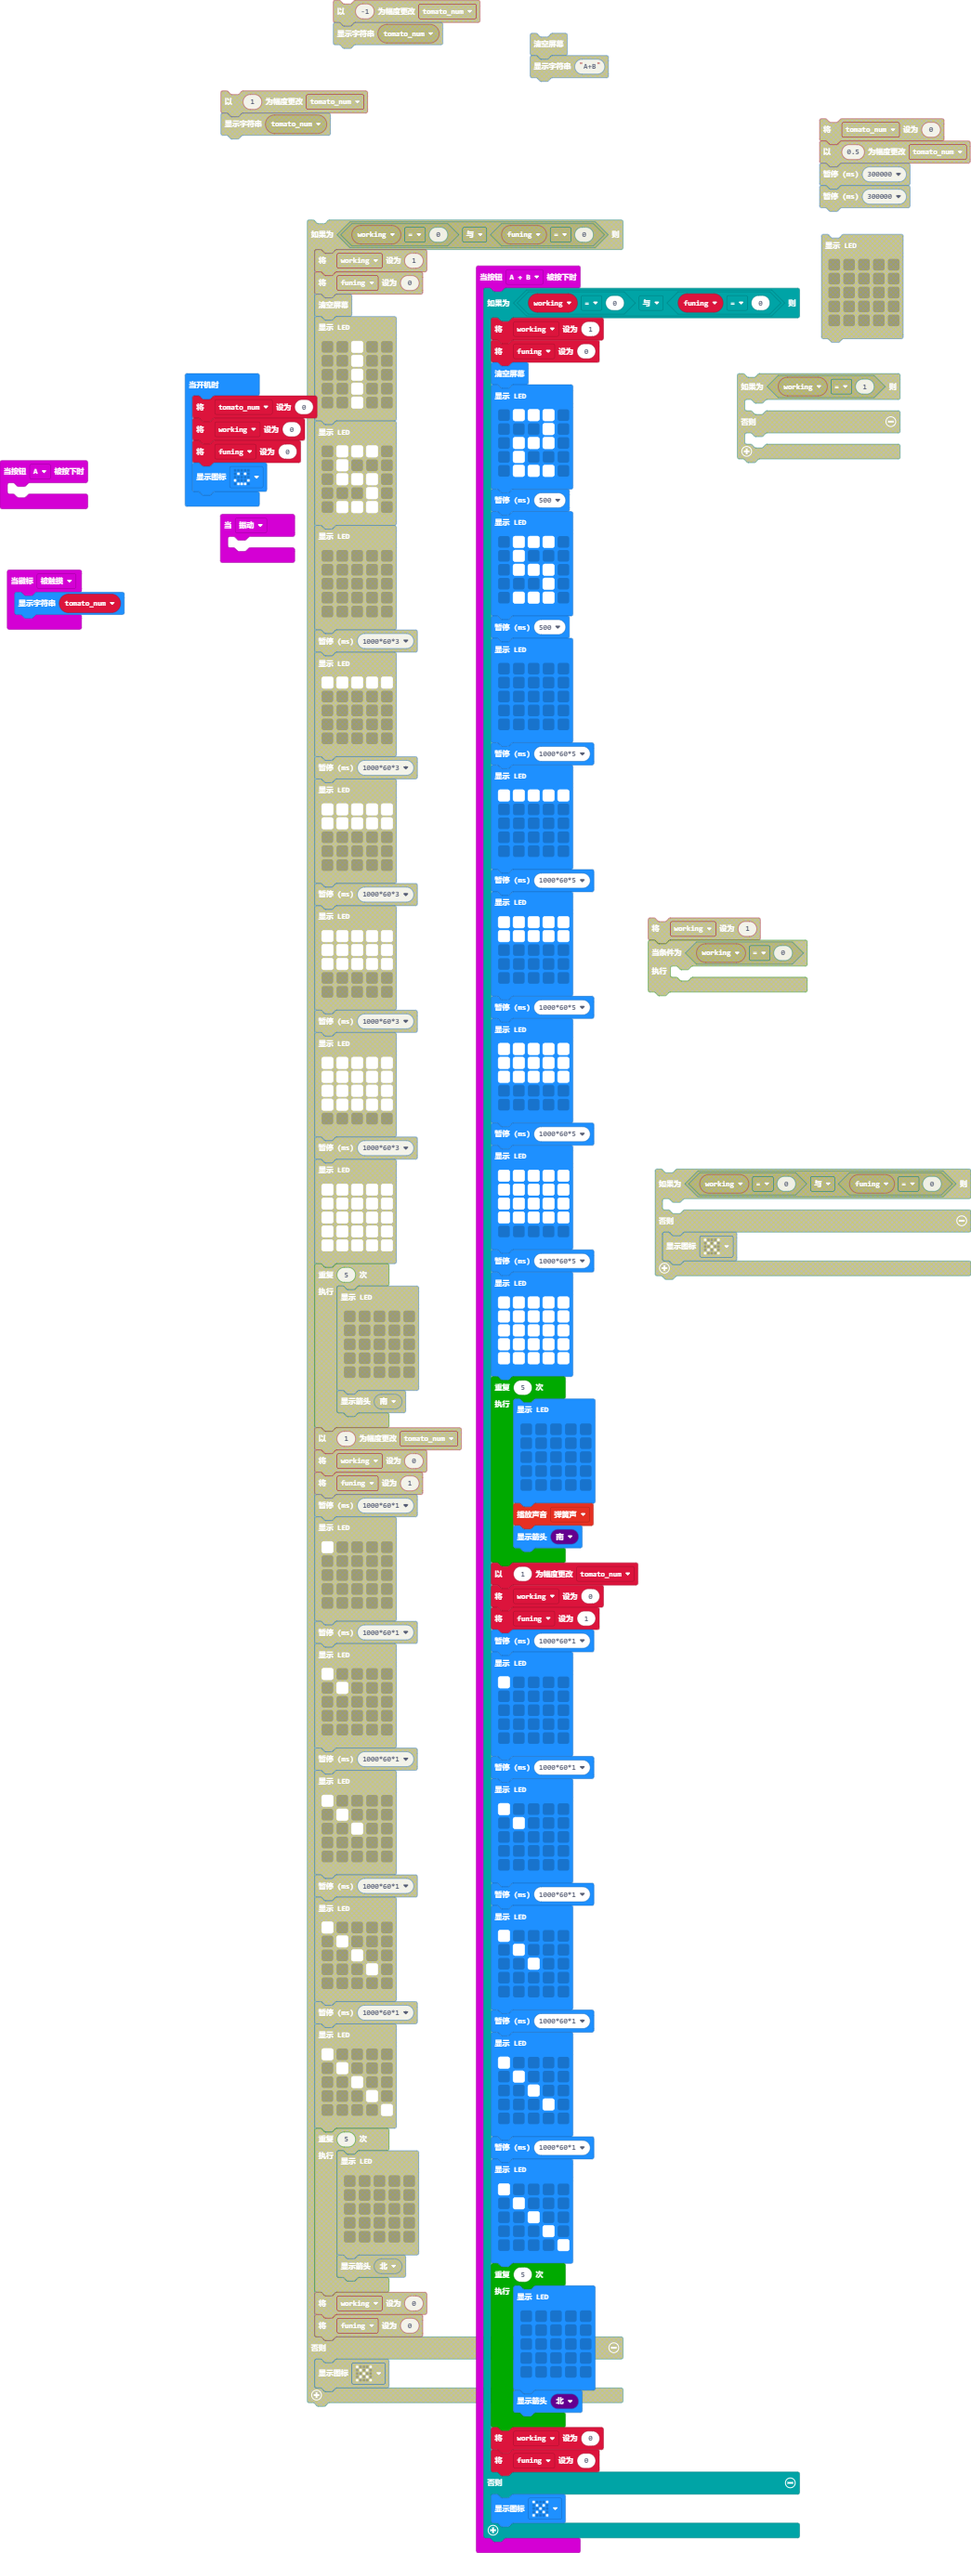
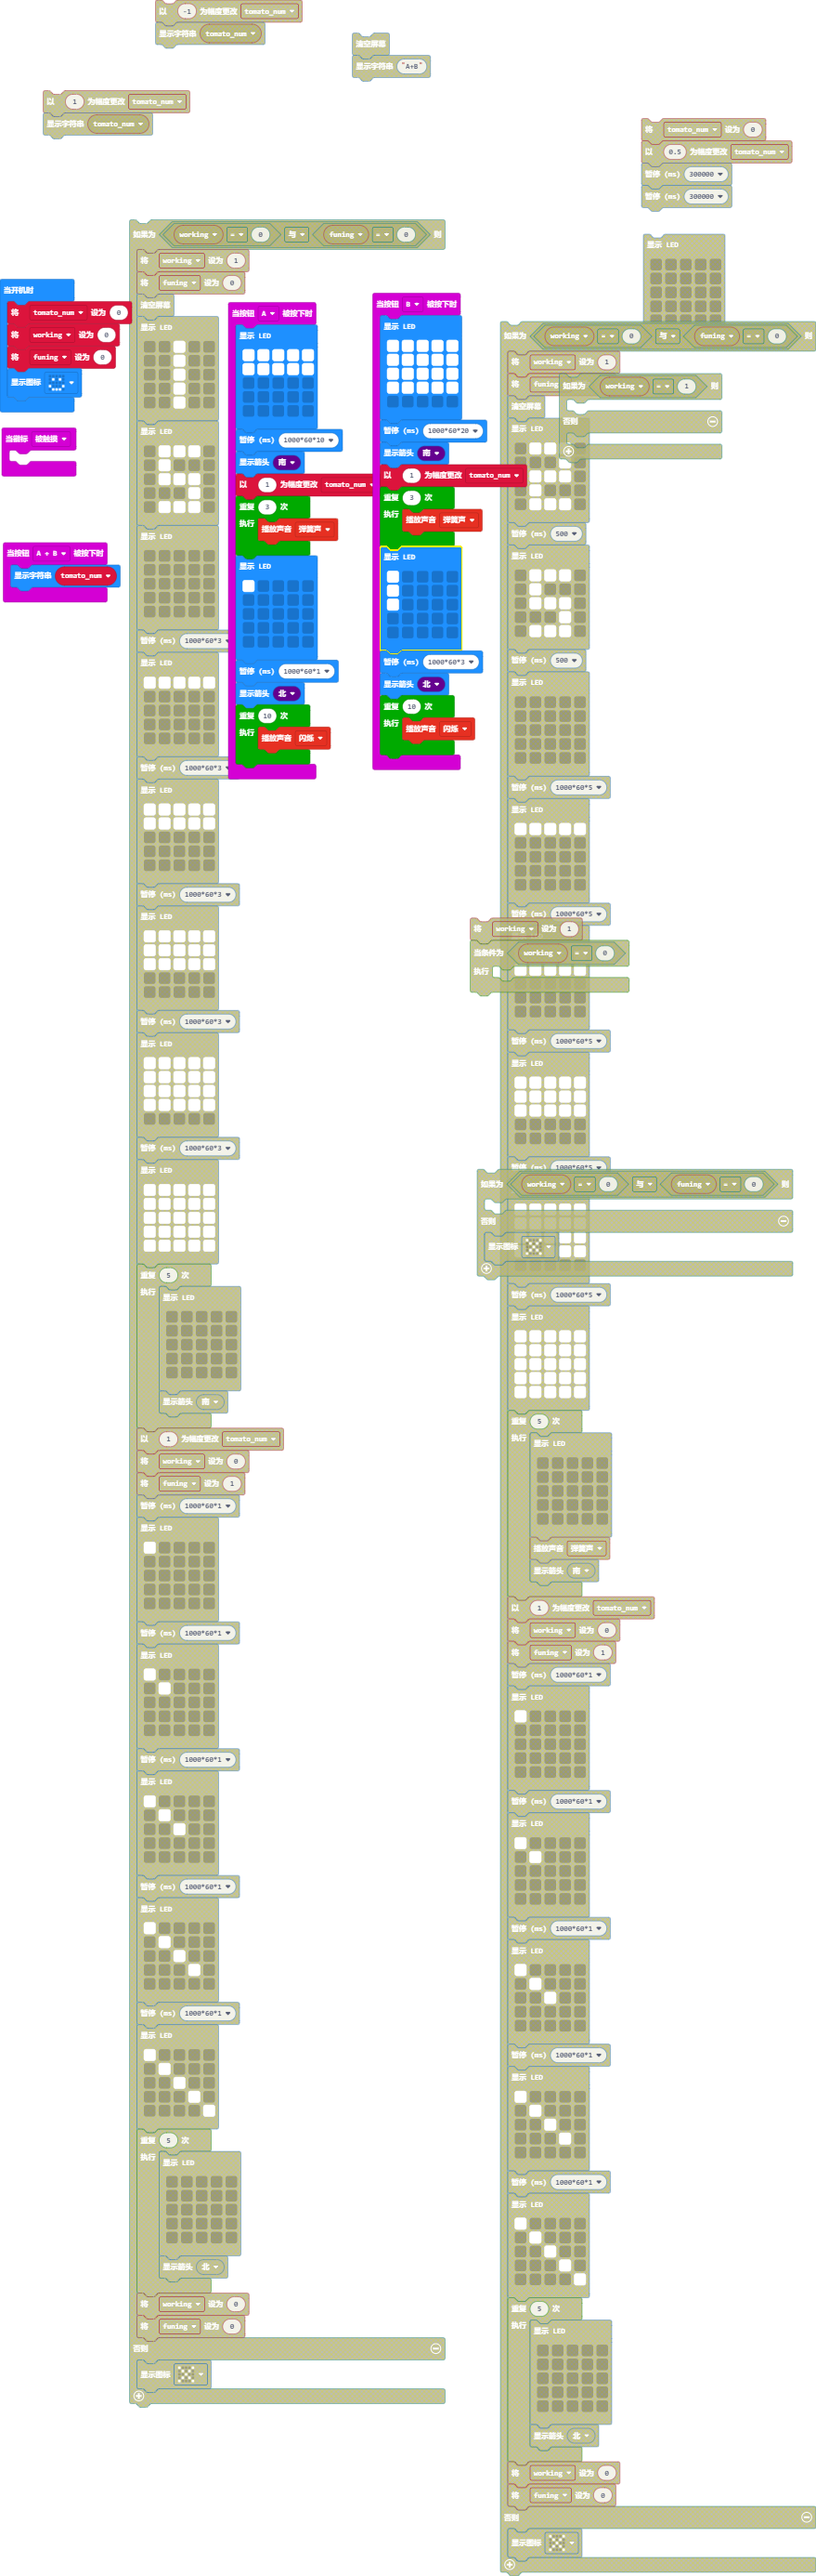
s

diff --git a/main.ts b/main.ts
@@ -1,154 +1,65 @@
 input.onLogoEvent(TouchButtonEvent.Touched, function () {
-    basic.showString("" + (tomato_num))
+	
 })
 input.onButtonPressed(Button.A, function () {
-	
-})
-input.onGesture(Gesture.Shake, function () {
-	
-})
-input.onButtonPressed(Button.AB, function () {
-    if (working == 0 && funing == 0) {
-        working = 1
-        funing = 0
-        basic.clearScreen()
-        basic.showLeds(`
-            . # # # .
-            . . . # .
-            . # # # .
-            . # . . .
-            . # # # .
-            `)
-        basic.pause(500)
-        basic.showLeds(`
-            . # # # .
-            . # . . .
-            . # # # .
-            . . . # .
-            . # # # .
-            `)
-        basic.pause(500)
-        basic.showLeds(`
-            . . . . .
-            . . . . .
-            . . . . .
-            . . . . .
-            . . . . .
-            `)
-        basic.pause(1000*60*5)
-        basic.showLeds(`
-            # # # # #
-            . . . . .
-            . . . . .
-            . . . . .
-            . . . . .
-            `)
-        basic.pause(1000*60*5)
-        basic.showLeds(`
-            # # # # #
-            # # # # #
-            . . . . .
-            . . . . .
-            . . . . .
-            `)
-        basic.pause(1000*60*5)
-        basic.showLeds(`
-            # # # # #
-            # # # # #
-            # # # # #
-            . . . . .
-            . . . . .
-            `)
-        basic.pause(1000*60*5)
-        basic.showLeds(`
-            # # # # #
-            # # # # #
-            # # # # #
-            # # # # #
-            . . . . .
-            `)
-        basic.pause(1000*60*5)
-        basic.showLeds(`
-            # # # # #
-            # # # # #
-            # # # # #
-            # # # # #
-            # # # # #
-            `)
-        for (let index = 0; index < 5; index++) {
-            basic.showLeds(`
-                . . . . .
-                . . . . .
-                . . . . .
-                . . . . .
-                . . . . .
-                `)
-            soundExpression.spring.play()
-            basic.showArrow(ArrowNames.South)
-        }
-        tomato_num += 1
-        working = 0
-        funing = 1
-        basic.pause(1000*60*1)
-        basic.showLeds(`
-            # . . . .
-            . . . . .
-            . . . . .
-            . . . . .
-            . . . . .
-            `)
-        basic.pause(1000*60*1)
-        basic.showLeds(`
-            # . . . .
-            . # . . .
-            . . . . .
-            . . . . .
-            . . . . .
-            `)
-        basic.pause(1000*60*1)
-        basic.showLeds(`
-            # . . . .
-            . # . . .
-            . . # . .
-            . . . . .
-            . . . . .
-            `)
-        basic.pause(1000*60*1)
-        basic.showLeds(`
-            # . . . .
-            . # . . .
-            . . # . .
-            . . . # .
-            . . . . .
-            `)
-        basic.pause(1000*60*1)
-        basic.showLeds(`
-            # . . . .
-            . # . . .
-            . . # . .
-            . . . # .
-            . . . . #
-            `)
-        for (let index = 0; index < 5; index++) {
-            basic.showLeds(`
-                . . . . .
-                . . . . .
-                . . . . .
-                . . . . .
-                . . . . .
-                `)
-            basic.showArrow(ArrowNames.North)
-        }
-        working = 0
-        funing = 0
-    } else {
-        basic.showIcon(IconNames.No)
+    basic.showLeds(`
+        # # # # #
+        # # # # #
+        . . . . .
+        . . . . .
+        . . . . .
+        `)
+    basic.pause(1000*60*10)
+    basic.showArrow(ArrowNames.South)
+    tomato_num += 1
+    for (let index = 0; index < 3; index++) {
+        soundExpression.spring.play()
+    }
+    basic.showLeds(`
+        # . . . .
+        . . . . .
+        . . . . .
+        . . . . .
+        . . . . .
+        `)
+    basic.pause(1000*60*1)
+    basic.showArrow(ArrowNames.North)
+    for (let index = 0; index < 10; index++) {
+        soundExpression.twinkle.play()
     }
 })
-let funing = 0
-let working = 0
+input.onButtonPressed(Button.AB, function () {
+    basic.showString("" + (tomato_num))
+})
+input.onButtonPressed(Button.B, function () {
+    basic.showLeds(`
+        # # # # #
+        # # # # #
+        # # # # #
+        # # # # #
+        . . . . .
+        `)
+    basic.pause(1000*60*20)
+    basic.showArrow(ArrowNames.South)
+    tomato_num += 1
+    for (let index = 0; index < 3; index++) {
+        soundExpression.spring.play()
+    }
+    basic.showLeds(`
+        # . . . .
+        # . . . .
+        # . . . .
+        . . . . .
+        . . . . .
+        `)
+    basic.pause(1000*60*3)
+    basic.showArrow(ArrowNames.North)
+    for (let index = 0; index < 10; index++) {
+        soundExpression.twinkle.play()
+    }
+})
 let tomato_num = 0
 tomato_num = 0
-working = 0
-funing = 0
+let working = 0
+let funing = 0
 basic.showIcon(IconNames.Happy)
